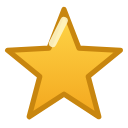
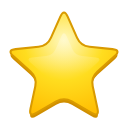
bản 258: ảnh sao: cánh bo tròn, vàng tươi chuyển màu, mặt bóng, bóng đáy
Claude-Session: https://claude.ai/code/session_015r7QjvgWpavV7UHFjkKbAg

diff --git a/src/tools/bong/lam.py b/src/tools/bong/lam.py
@@ -37,7 +37,7 @@ F={
  'xanh': khung('#2f86d6'),
  'do': khung('#d9443a'),
  'nuoc': hinh('<g transform="scale(.82)"><path d="M0 -6 C2.2 -2.6 4.6 0 4.6 2.4 C4.6 5 2.5 6.4 0 6.4 C-2.5 6.4 -4.6 5 -4.6 2.4 C-4.6 0 -2.2 -2.6 0 -6 Z" fill="#3a8fd6" stroke="#2a6fb0" stroke-width=".5"/><path d="M-2.4 2 C-2.4 3.6 -1.4 4.6 -0.2 4.8" fill="none" stroke="#ffffff" stroke-width=".9" stroke-linecap="round" opacity=".85"/></g>'),   # bản 257: thu 82% (trong bong bóng hơi to)
- 'sao': hinh('<defs><linearGradient id="sg" x1="0" y1="-6" x2="0" y2="6" gradientUnits="userSpaceOnUse"><stop offset="0" stop-color="#ffd84a"/><stop offset="1" stop-color="#f3a51c"/></linearGradient></defs><path d="M0.00 -5.80 L1.59 -1.68 L5.99 -1.45 L2.57 1.33 L3.70 5.60 L0.00 3.20 L-3.70 5.60 L-2.57 1.33 L-5.99 -1.45 L-1.59 -1.68 Z" fill="url(#sg)" stroke="#c8860f" stroke-width=".55" stroke-linejoin="round"/><path d="M-1.2 -2.2 L0 -4.6" stroke="#fff6c8" stroke-width=".8" stroke-linecap="round" opacity=".9"/>'),   # bản 257: ngôi sao nút chăm (vòng nút ô ruộng)
+ 'sao': hinh('<defs><radialGradient id="g" cx="0" cy="-2.5" r="8.5" gradientUnits="userSpaceOnUse"><stop offset="0" stop-color="#fff8c0"/><stop offset=".5" stop-color="#ffdd1f"/><stop offset="1" stop-color="#ffbb00"/></radialGradient><linearGradient id="h" x1="0" y1="-5" x2="0" y2="1" gradientUnits="userSpaceOnUse"><stop offset="0" stop-color="#fffbe0" stop-opacity=".95"/><stop offset="1" stop-color="#fffbe0" stop-opacity="0"/></linearGradient></defs><path d="M-0.39 -5.03 Q0.00 -5.90 0.39 -5.03 L1.38 -2.80 Q1.76 -1.93 2.71 -1.83 L5.14 -1.58 Q6.09 -1.48 5.38 -0.84 L3.56 0.79 Q2.85 1.43 3.05 2.36 L3.56 4.74 Q3.76 5.68 2.93 5.20 L0.83 3.98 Q0.00 3.50 -0.83 3.98 L-2.93 5.20 Q-3.76 5.68 -3.56 4.74 L-3.05 2.36 Q-2.85 1.43 -3.56 0.79 L-5.38 -0.84 Q-6.09 -1.48 -5.14 -1.58 L-2.71 -1.83 Q-1.76 -1.93 -1.38 -2.80 Z" fill="#d08f00" transform="translate(0 .35)"/><path d="M-0.39 -5.03 Q0.00 -5.90 0.39 -5.03 L1.38 -2.80 Q1.76 -1.93 2.71 -1.83 L5.14 -1.58 Q6.09 -1.48 5.38 -0.84 L3.56 0.79 Q2.85 1.43 3.05 2.36 L3.56 4.74 Q3.76 5.68 2.93 5.20 L0.83 3.98 Q0.00 3.50 -0.83 3.98 L-2.93 5.20 Q-3.76 5.68 -3.56 4.74 L-3.05 2.36 Q-2.85 1.43 -3.56 0.79 L-5.38 -0.84 Q-6.09 -1.48 -5.14 -1.58 L-2.71 -1.83 Q-1.76 -1.93 -1.38 -2.80 Z" fill="url(#g)" stroke="#d99a00" stroke-width=".22" stroke-linejoin="round"/><path d="M-0.29 -2.93 Q0.00 -3.60 0.29 -2.93 L0.88 -1.59 Q1.18 -0.92 1.90 -0.85 L3.36 -0.70 Q4.09 -0.63 3.54 -0.14 L2.45 0.83 Q1.90 1.32 2.06 2.03 L2.37 3.46 Q2.53 4.18 1.90 3.81 L0.63 3.07 Q0.00 2.70 -0.63 3.07 L-1.90 3.81 Q-2.53 4.18 -2.37 3.46 L-2.06 2.03 Q-1.90 1.32 -2.45 0.83 L-3.54 -0.14 Q-4.09 -0.63 -3.36 -0.70 L-1.90 -0.85 Q-1.18 -0.92 -0.88 -1.59 Z" fill="url(#h)" opacity=".7"/>'),   # bản 258: ngôi sao bo cánh, vàng tươi, bóng khối (nút chăm vòng nút ô ruộng)
  'chat': hinh('<circle cx="-4.5" cy="0" r="1.6" fill="#6a4a1a"/><circle cx="0" cy="0" r="1.6" fill="#6a4a1a"/><circle cx="4.5" cy="0" r="1.6" fill="#6a4a1a"/>'),   # chatBubble: nhà mời trò chuyện
  'gap': hinh('<path d="M-1.35 -5.6 L1.35 -5.6 L0.9 2 L-0.9 2 Z" fill="#d9443a" stroke="#d9443a" stroke-width=".6" stroke-linejoin="round"/><circle cx="0" cy="4.4" r="1.45" fill="#d9443a"/>'),
  'benh': hinh('<rect x="-1.5" y="-5" width="3" height="10" rx=".6" fill="#d9443a"/><rect x="-5" y="-1.5" width="10" height="3" rx=".6" fill="#d9443a"/>'),
